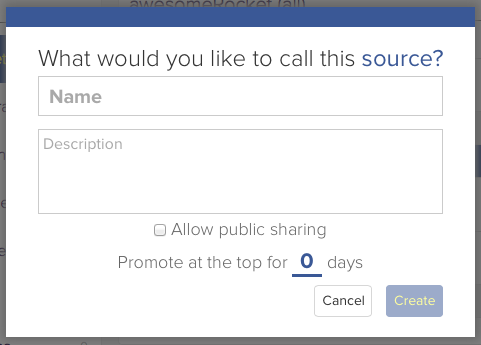
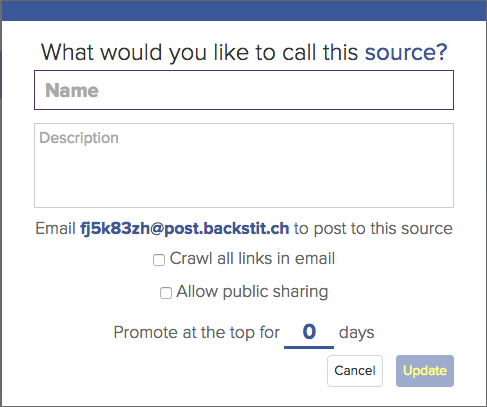
add custom source email docs

Changed region(s): [[0.0, 0.0, 1.0, 1.0]]

diff --git a/_posts/2015-05-17-organization.md b/_posts/2015-05-17-organization.md
@@ -177,16 +177,20 @@ Custom sources allow team admins to post content directly into backstitch.  Thes
 
 - **Name**: This is the name of the source.
 - **Description**: Give a description of what the source should be used for. 
+- **Email**: The automatically-generated email address assigned to this source.
+- **Crawl all links in email**: This will attempt to crawl any link found in emails sent to the source.
 - **Allow public sharing**: This will allow team members to share custom source posts to the public through social media or email. 
 - **Promote to the top**: Promoted posts from custom sources will always be show above content from others sources for the designated number of days.
 
 #### Create Post
 
-There are two ways to add a new post to a source.
+There are three ways to add a new post to a source.
 
 1.  **From the organization dashboard**: create a new post by *clicking* the **+New Post** button from the custom sources section of the organization dashboard. <div class="full zoomable"><img src="/images/organizations/custom_sources/create_post.png"></div>
 
 1. **From the navigation bar**: create a new post by *clicking* the large **+** button on the navigation bar, then *clicking* **Add a new post** and selecting the custom source to post to. <div class="full zoomable"><img src="/images/organizations/custom_sources/create_post_menu.png"></div>
+
+1. **Via email**: *Send* an email to the email address provided on the source dialog. 
 
 There are **three** types of posts that can be created.
 
@@ -210,8 +214,12 @@ Author an original post and make it available in your custom source as an articl
 
 <div class="full zoomable"><img src="/images/organizations/custom_sources/text_post.png"></div>
 
+#### email
+
+Send an email to the email address assigned to your custom source. The email will be available in your custom source exactly as it appears in your inbox. Links that are crawled if *crawl all links in email* is checked will be brought into your custom source as articles. 
+
 <div class="note">
-  Note: Custom sources is only available to backstitch for Business and Enterprise plans <a href="http://backstit.ch/pricing" target="_blank">more info</a>
+  Note: Custom sources are only available to backstitch for Business and Enterprise plans <a href="http://backstit.ch/pricing" target="_blank">more info</a>
 </div>
 
 --
